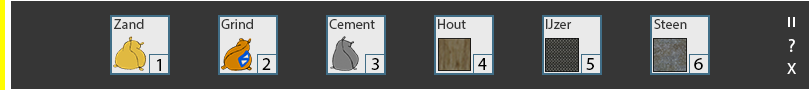
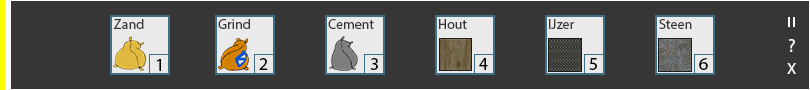
overlay geïmplementeerd

diff --git a/Player.java b/Player.java
@@ -46,26 +46,32 @@ public abstract class Player extends Actor {
 
         if (Greenfoot.isKeyDown("1")) {
             setBagType(Bag.BagType.SANDBAG);
+            ((FloodWorld)getWorld()).setOverlayLocation(12, 75);
         }
         
         if (Greenfoot.isKeyDown("2")) {
             setBagType(Bag.BagType.CEMENT_BAG);
+            ((FloodWorld)getWorld()).setOverlayLocation(23, 75);
         }
         
         if (Greenfoot.isKeyDown("3")) {
             setBagType(Bag.BagType.GRAVEL_BAG);
+            ((FloodWorld)getWorld()).setOverlayLocation(34, 75);
         }
         
         if (Greenfoot.isKeyDown("4")) {
             setBagType(Bag.BagType.WOODEN_DIVIDER);
+            ((FloodWorld)getWorld()).setOverlayLocation(45, 75);
         }
 
         if (Greenfoot.isKeyDown("5")) {
             setBagType(Bag.BagType.IRON_DIVIDER);
+            ((FloodWorld)getWorld()).setOverlayLocation(56, 75);
         }
         
         if (Greenfoot.isKeyDown("6")) {
             setBagType(Bag.BagType.CONCRETE_DIVIDER);
+            ((FloodWorld)getWorld()).setOverlayLocation(67, 75);
         }
  
         if(Greenfoot.mouseClicked(null)) {
@@ -88,7 +94,7 @@ public abstract class Player extends Actor {
             
         Actor coin = getOneObjectAtOffset(0, 0, Coin.class);
         if (coin != null) {
-            Greenfoot.playSound("Coin.mp3");
+            Greenfoot.playSound("Coin.wav");
             getWorld().removeObject(coin);
             ((FloodWorld)getWorld()).getCoinCounter().add(10);
         }

diff --git a/FloodWorld.java b/FloodWorld.java
@@ -5,14 +5,15 @@ public class FloodWorld extends World {
     public Counter scoreCounter;
     private Player player;
     private Coins coinCounter;
-    
+    private Overlay overlay;
+
     //GreenfootSound backgroundMusic = new GreenfootSound("zeerstoer.mp3");  
     
     public FloodWorld()  {
         super(80, 80, 10);
         //backgroundMusic.playLoop();
 
-        setPaintOrder(GameOverScreen.class, Counter.class, Coins.class, MenuBar.class, Player.class, Bag.class, Coin.class, Water.class, Floodbank.class);
+        setPaintOrder(GameOverScreen.class, Overlay.class, Counter.class, Coins.class, MenuBar.class, Player.class, Bag.class, Coin.class, Water.class, Floodbank.class);
 
         for(int i=0; i<=80; i++) {
             for(int j=0; j<=30; j++) {
@@ -63,5 +64,13 @@ public class FloodWorld extends World {
     
     public Player getPlayer() {
         return player;
+    }
+    
+    public void setOverlayLocation(int x, int y) {
+        if (overlay == null) {
+        overlay = new Overlay();
+        addObject(overlay, 20, 75);
+        }
+    overlay.setLocation(x, y);
     }
 }

diff --git a/Overlay.java b/Overlay.java
@@ -8,5 +8,8 @@ import greenfoot.*;
  * @version 18 December
  */
 
-public class Overlay extends Actor {
+public class Overlay extends Actor {  
+    public Overlay(){
+        getImage();
+    }
 }
